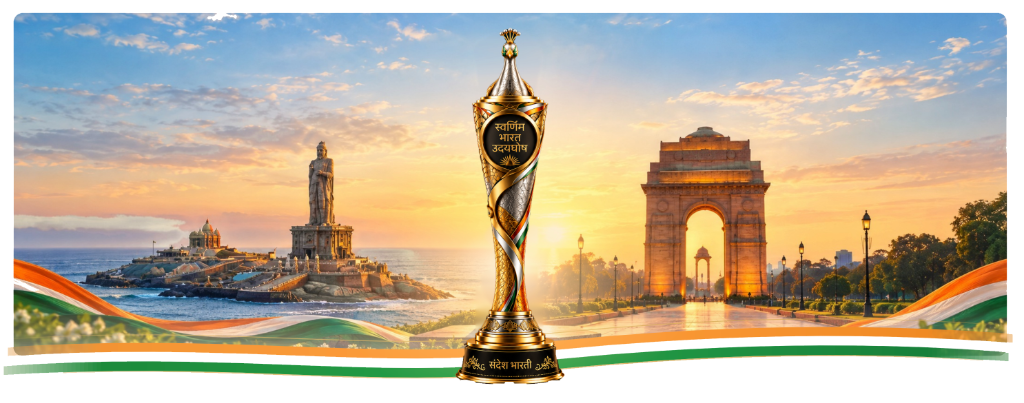
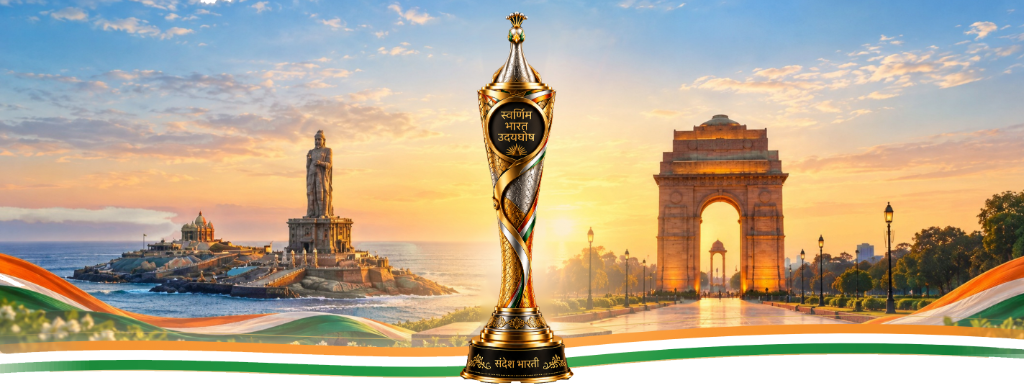
Update hero section with clean edge-to-edge artwork and subtle mirror reflection

diff --git a/index.html b/index.html
@@ -39,14 +39,20 @@ button,a{-webkit-tap-highlight-color:transparent}
 <div class="absolute top-1/2 -left-20 w-80 h-80 rounded-full bg-tertiary-fixed/25 blur-[130px] pointer-events-none"></div>
 <div class="absolute top-1/2 -right-20 w-80 h-80 rounded-full bg-secondary-fixed/25 blur-[130px] pointer-events-none"></div>
 
-<!-- 1. FULL WIDTH EDGE-TO-EDGE HERO BANNER ARTWORK -->
-<div class="w-full relative flex items-center justify-center px-0">
+<!-- 1. FULL WIDTH EDGE-TO-EDGE HERO BANNER ARTWORK WITH CLEAN MIRROR REFLECTION -->
+<div class="w-full relative flex flex-col items-center justify-center px-0 overflow-hidden">
   <img src="assets/hero-banner.png" 
        alt="Swarnim Bharat Udayghosh - 2026 to 2047 Viksit Bharat National Journey" 
-       class="w-full h-auto block select-none drop-shadow-[0_12px_32px_rgba(0,0,0,0.07)]" 
+       class="w-full h-auto block select-none drop-shadow-[0_12px_28px_rgba(0,0,0,0.06)]" 
        loading="eager" 
        fetchpriority="high"
        decoding="async" />
+  
+  <!-- Subtle Mirror Reflection Surface -->
+  <div class="w-full h-10 sm:h-14 md:h-16 overflow-hidden relative opacity-20 pointer-events-none -scale-y-100 -mt-1 select-none"
+       style="-webkit-mask-image: linear-gradient(to bottom, rgba(0,0,0,0.65) 0%, transparent 85%); mask-image: linear-gradient(to bottom, rgba(0,0,0,0.65) 0%, transparent 85%);">
+    <img src="assets/hero-banner.png" alt="" class="w-full h-auto block select-none filter blur-[0.5px]" />
+  </div>
 </div>
 
 <!-- 2. OFFICIAL TYPOGRAPHY & CTAs (Centered Directly Under Full-Width Banner) -->
